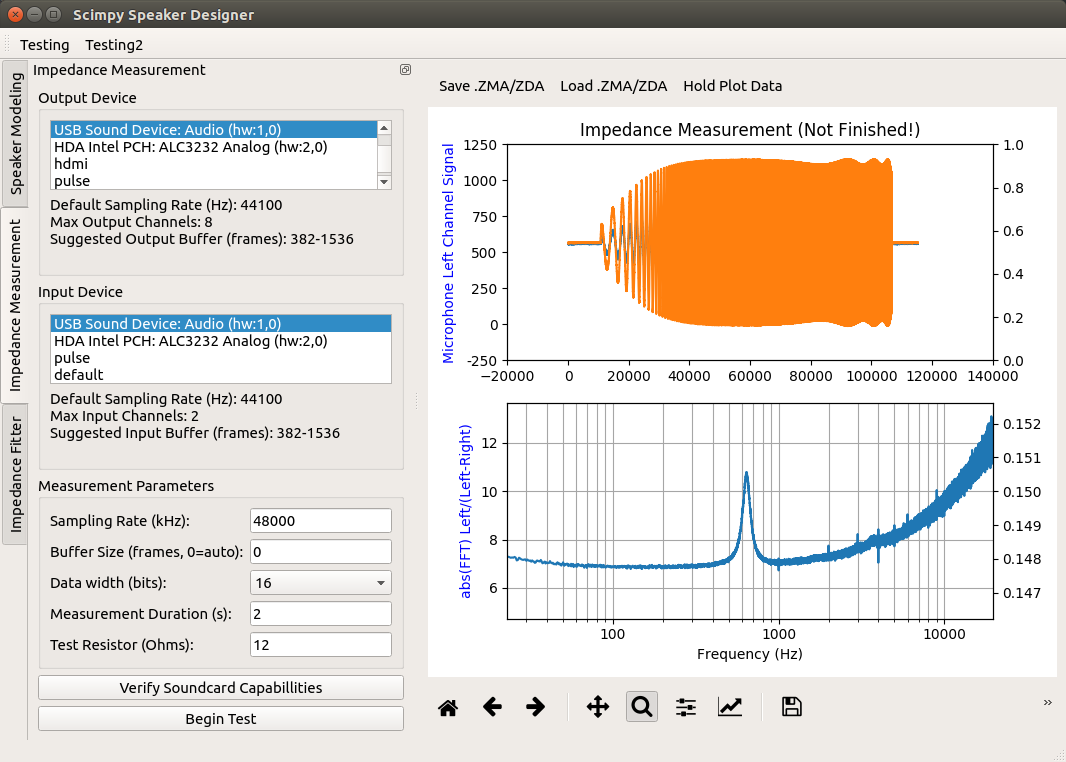
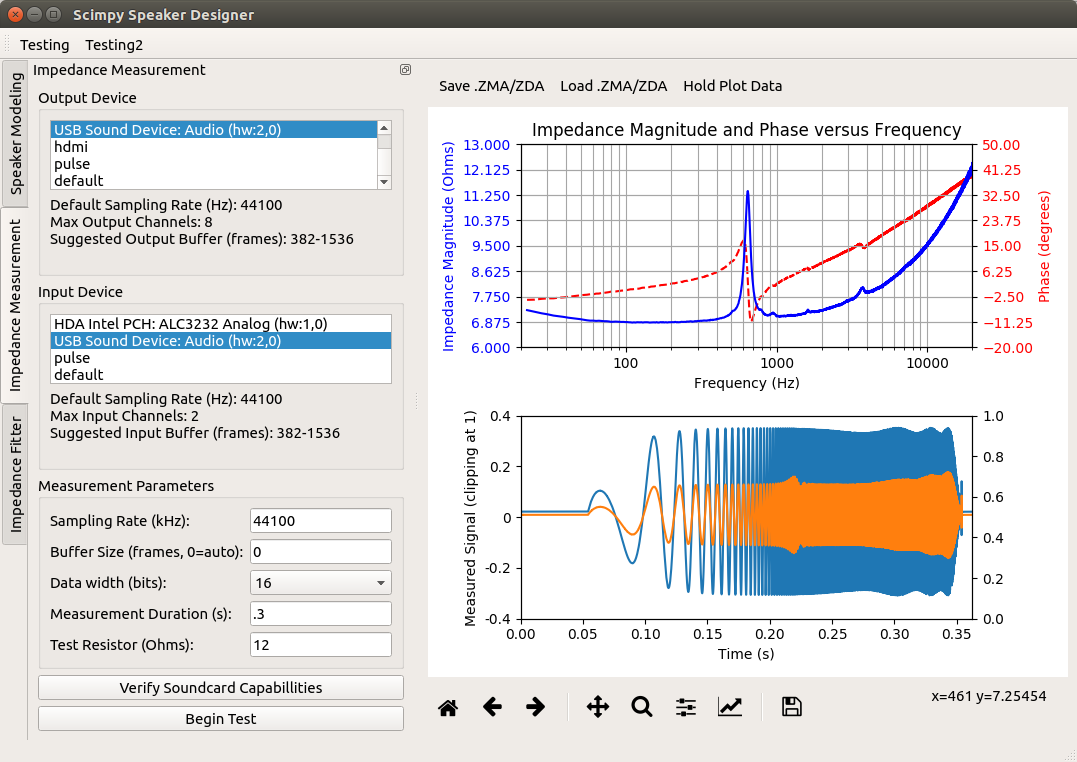
fixes to make impedance measuring easier

diff --git a/scimpy/impfitterui.py b/scimpy/impfitterui.py
@@ -133,13 +133,13 @@ def free_speaker_extract(init_test, progressdialog):
             z1d = np.zeros(diff.size*2, dtype=np.float64)
             # since omega is linear, and we are interested in log(omega)
             # weight each by the gradient of log omega
-            z1d[0:z1d.size:2] = diff.real# * weights
-            z1d[1:z1d.size:2] = diff.imag# * weights
+            z1d[0:z1d.size:2] = diff.real * weights
+            z1d[1:z1d.size:2] = diff.imag * weights
             # print(ztotal[100], zmag[100] * np.exp(1j*zphase[100]))
             # sse = sum(z1d**2)
             # if sse > sse.size:
             #    return sum(z1d**2)
-            return sum(z1d**2) # old, unweighted
+            return sum(z1d**2)
             # return sum((abs(ztotal)-zmag)**2)
 
     def print_fun(x, f, accepted):
@@ -174,7 +174,7 @@ def free_speaker_extract(init_test, progressdialog):
 
     stepsize = .5
     bounds = [(element*.01, element*100) for element in init_test]
-    bounds[5] = (0,2)
+    bounds[5] = (0,1)
     minimizer_kwargs = dict(bounds=bounds)
     stepfuncobj = StepFunc(stepsize=stepsize, init_test=init_test)
     residuals_obj = Residuals(omega, zmag, zphase)
@@ -243,17 +243,17 @@ class ImpedanceFitterWidget(QtWidgets.QGroupBox):
 
         formwidgetlayout = QtWidgets.QFormLayout()
 
-        bllineedit = QtWidgets.QLineEdit("1")
+        bllineedit = QtWidgets.QLineEdit("4.5")
         formwidgetlayout.addRow("*BL (Tm):", bllineedit)
-        relineedit = QtWidgets.QLineEdit("1")
+        relineedit = QtWidgets.QLineEdit("6")
         formwidgetlayout.addRow("Re (ohms):", relineedit)
-        rmslineedit = QtWidgets.QLineEdit("1")
+        rmslineedit = QtWidgets.QLineEdit("3.4")
         formwidgetlayout.addRow("Rms (ohms):", rmslineedit)
-        mmslineedit = QtWidgets.QLineEdit("1")
+        mmslineedit = QtWidgets.QLineEdit("1.8")
         formwidgetlayout.addRow("Mms (g):", mmslineedit)
-        cmslineedit = QtWidgets.QLineEdit("1")
+        cmslineedit = QtWidgets.QLineEdit("0.16")
         formwidgetlayout.addRow("Cms (mm/N):", cmslineedit)
-        lelineedit = QtWidgets.QLineEdit("1")
+        lelineedit = QtWidgets.QLineEdit("0.1")
         formwidgetlayout.addRow("K (times 1000):", lelineedit)
         reddylineedit = QtWidgets.QLineEdit("1")
         formwidgetlayout.addRow("n:", reddylineedit)

diff --git a/scimpy/imptesterui.py b/scimpy/imptesterui.py
@@ -22,7 +22,7 @@ class MeasurementParamsForm(QtWidgets.QGroupBox):
         self.bitwidthcombobox = QtWidgets.QComboBox()
         self.bitwidthcombobox.addItems(["8", "16", "32"])
         self.bitwidthcombobox.setCurrentIndex(1)
-        self.durationlineedit = QtWidgets.QLineEdit("2")
+        self.durationlineedit = QtWidgets.QLineEdit("0.3")
         self.testrlineedit = QtWidgets.QLineEdit("12")
         layout.addRow("Sampling Rate (kHz):", self.sampleratelineedit)
         layout.addRow("Buffer Size (frames, 0=auto):", self.bufferlineedit)

diff --git a/scimpy/speakertest.py b/scimpy/speakertest.py
@@ -187,7 +187,7 @@ increase buffer size."
 
         x_data = np.fft.rfftfreq(input_data[:, 0].size,
                                  d=1./datarate)
-        imp_data = testr*input_data_fft0/(input_data_fft0-input_data_fft1)
+        imp_data = testr*input_data_fft0/(input_data_fft1-input_data_fft0)
         # TODO: only plot for freq 10-20kHz
 
         speakermodel.plot_impedance(ax1=ax1,
